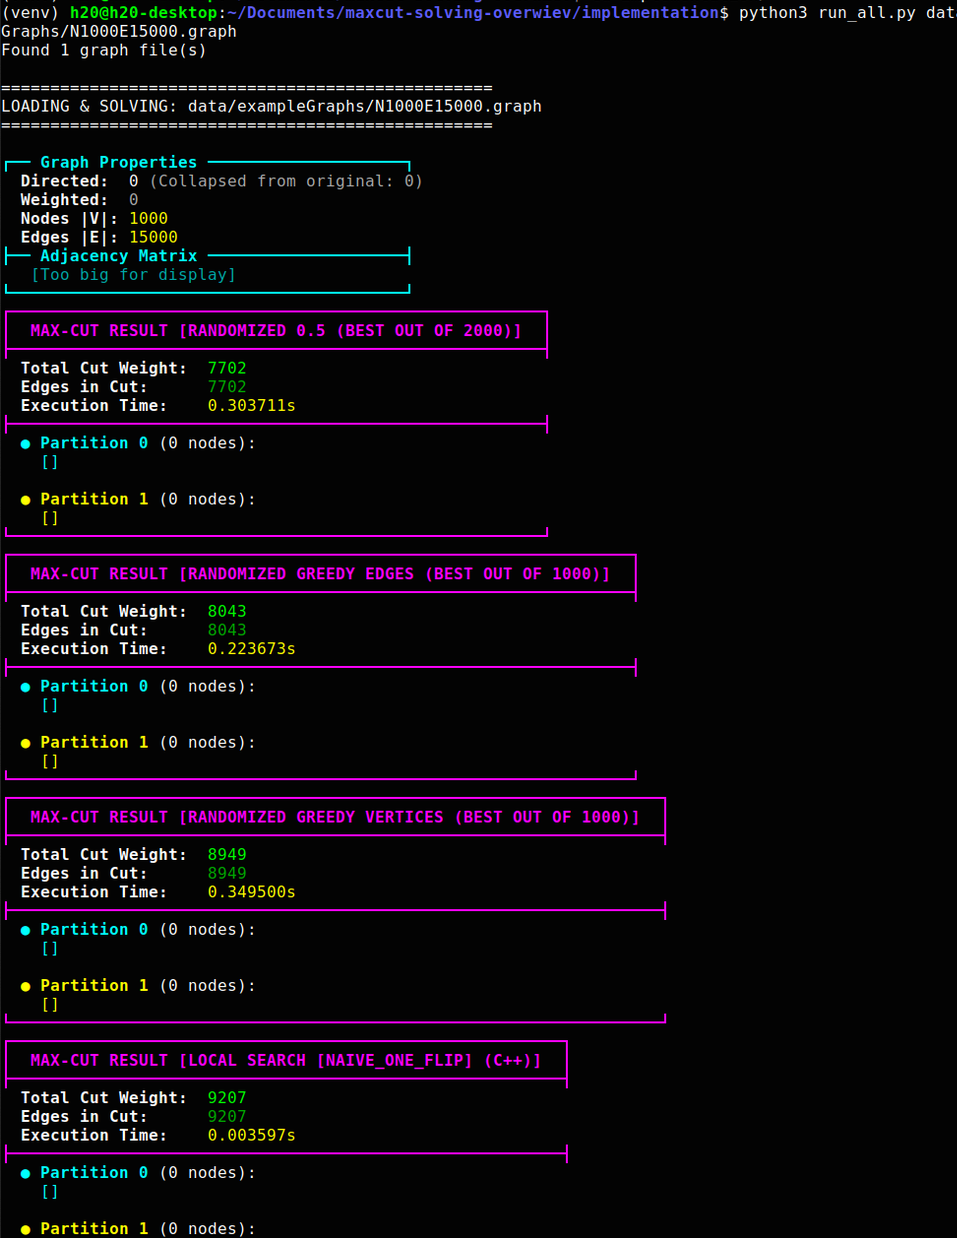
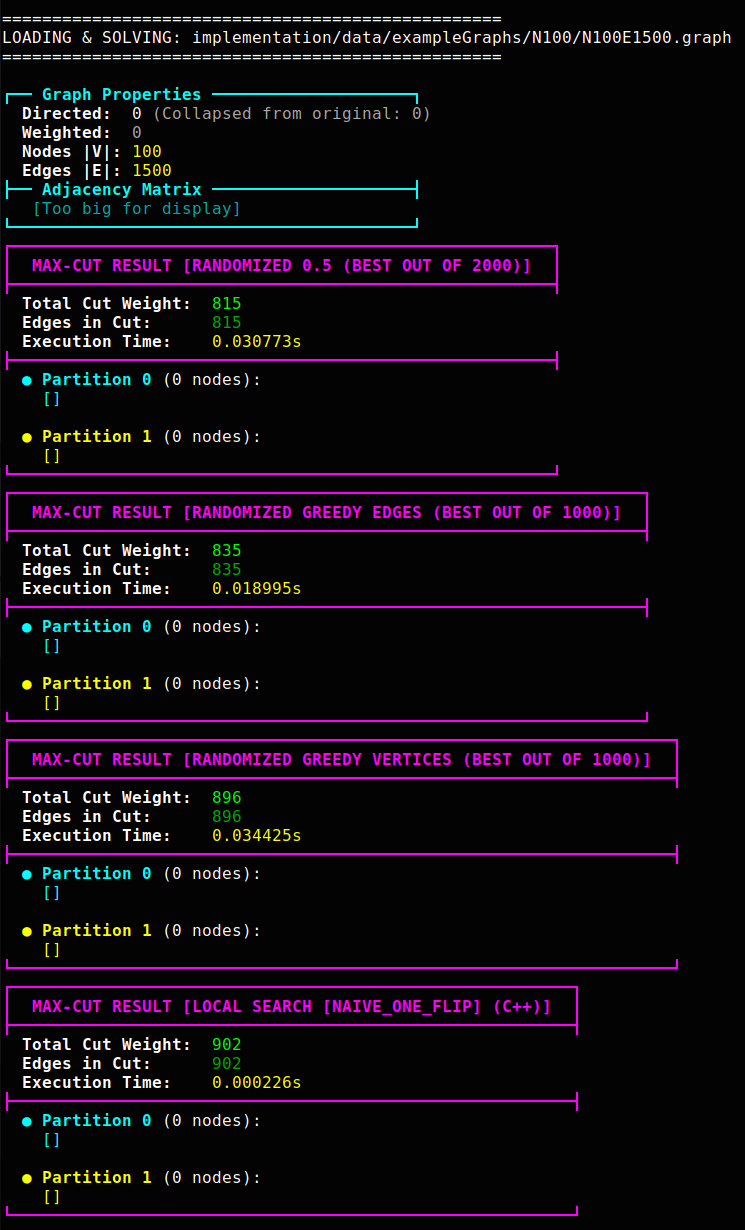
fixed bugs, added explanations

Changed region(s): [[0.0, 0.0, 1.0, 1.0]]

diff --git a/implementation/graphs/python/Graph.py b/implementation/graphs/python/Graph.py
@@ -150,3 +150,63 @@ class Graph:
 
         plt.tight_layout()
         plt.show()
+        
+    def draw_interactive(self, partition: dict[int, int] = None, node_size=200, filename="graph.html"):
+        from pyvis.network import Network
+        import networkx as nx
+        import matplotlib.pyplot as plt
+
+        # 1. Build the NetworkX graph
+        G = nx.Graph()
+        G.add_nodes_from(range(1, self.V_count + 1))
+
+        for u in range(1, self.V_count + 1):
+            for v in range(u + 1, self.V_count + 1):
+                weight = self.matrix[u][v]
+                if weight != 0.0:
+                    G.add_edge(u, v, weight=weight)
+
+        net = Network(height="600px", width="100%", bgcolor="#ffffff", font_color="black")
+        net.from_nx(G)
+
+        pyvis_size = max(25, int((node_size ** 0.5) * 4))
+
+        if partition:
+            unique_partitions = list(set(partition.values()))
+            print("Unique partition values:", set(partition.values()))
+            cmap = plt.get_cmap("Set2")
+
+            for node in net.nodes:
+                node_id = node["id"]
+                part_val = partition.get(node_id, 0)
+                
+                if len(unique_partitions) > 1:
+                    color_idx = unique_partitions.index(part_val) / max(1, len(unique_partitions) - 1)
+                else:
+                    color_idx = 0
+                
+                rgba = cmap(color_idx)
+                hex_color = '#{:02x}{:02x}{:02x}'.format(int(rgba[0]*255), int(rgba[1]*255), int(rgba[2]*255))
+                
+                node["color"] = hex_color
+                node["size"] = pyvis_size
+                node["title"] = f"Node {node_id} (Group {part_val})"
+
+            for edge in net.edges:
+                u, v = edge["from"], edge["to"]
+                if partition.get(u) != partition.get(v):
+                    edge["color"] = "red"
+                    edge["dashes"] = True
+                    edge["width"] = 1.5
+                else:
+                    edge["color"] = "grey"
+                    edge["width"] = 1.5
+        else:
+            for node in net.nodes:
+                node["color"] = "lightblue"
+                node["size"] = pyvis_size
+
+        # Enable physics, save, and launch in browser
+        net.barnes_hut()
+        net.show(filename, notebook=False)
+        print(f"Interactive graph saved and opened as {filename}")

diff --git a/implementation/run_all.py b/implementation/run_all.py
@@ -44,14 +44,14 @@ def ensure_cpp_library_built():
 # -- CONFIG --
 
 DO_FANCY = True
-TOP_AMOUNT = 999
+TOP_AMOUNT = 7
 
 RUN_BASIC = True
 
 RUN_WARM = True
 GOEMANS_VERBOSE = False
 
-RUN_MIP = True
+RUN_MIP = False
 MIP_TIME_LIMIT = 1800
 MIP_VERBOSE = True
 MIP_CALLBACK = [0.30, 0.20, 0.15, 0.12, 0.08, 0.05, 0.03, 0.01]
@@ -101,6 +101,7 @@ if __name__ == "__main__":
                 print(graph)
 
                 results_tracker = []
+                best_result = Result(cut_weight=0, partition=[], cut_edge_count=0)
 
                 def run_and_track(tag, func, *args, prep_time=0.0, **kwargs):
                     res = func(*args, **kwargs)
@@ -111,6 +112,10 @@ if __name__ == "__main__":
                     else:
                         raise RuntimeError
 
+                    global best_result
+                    if res.cut_weight > best_result.cut_weight:
+                        best_result = res
+                    
                     p_str = res.clear_partition()
                     results_tracker.append({
                         "tag": tag,
@@ -181,6 +186,11 @@ if __name__ == "__main__":
                     def mip_checkpoint(res, gap):
                         pct = f"{gap * 100:.4f}%"
                         p_str = res.clear_partition()
+
+                        global best_result
+                        if res.cut_weight > best_result.cut_weight:
+                            best_result = res
+
                         results_tracker.append({
                             "tag": f"Exact MIP [checkpoint gap<={pct} ({res.cut_weight:.4f} : OPT : {res.cut_weight*(gap+1):.4f})]",
                             "weight": res.cut_weight,
@@ -230,6 +240,8 @@ if __name__ == "__main__":
                 box_lines.append(f"{MAGENTA}╚════════════════════════════════════════════════════════════╝{RST}")
 
                 print("\n".join(box_lines))
+
+                #graph.draw_interactive(partition=best_result.partition)
                 
             except Exception as e:
                 print(f"Error occurred: {e}")

diff --git a/implementation/methodologies/quantum/python/Quantum.py b/implementation/methodologies/quantum/python/Quantum.py
@@ -21,7 +21,7 @@ def _edge_list(graph: Graph):
 
 
 def _cost_diagonal(n, edges):
-    """cut weight of every bitstring; index i has qubit q = bit q of i (little-endian)."""
+    """cut weight of every bitstring; index i has qubit q = bit q of i (little-endian). -> Qskit different convetion"""
     idx = np.arange(2 ** n, dtype=np.uint32)
     diag = np.zeros(2 ** n)
     for u, v, w in edges:

diff --git a/implementation/run_quantum.py b/implementation/run_quantum.py
@@ -6,7 +6,7 @@ import os
 import argparse
 
 from implementation.graphs.python.Graph import Graph
-import implementation.methodologies.heuristics_memetics.python.Quantum as qtm
+import implementation.methodologies.quantum.python.Quantum as qtm
 
 MAX_QUBITS = 20  # graphs larger than this are skipped
 MEAN_RE = re.compile(r"mean cut ([0-9.]+)")

diff --git a/implementation/methodologies/approximations/python/cpplib_approximations.py b/implementation/methodologies/approximations/python/cpplib_approximations.py
@@ -29,7 +29,7 @@ class _CResult(ctypes.Structure):
     _fields_ = [
         ("cut_weight", ctypes.c_double),
         ("cut_edge_count", ctypes.c_int),
-        ("partition", ctypes.POINTER(ctypes.c_int))
+        ("partition", ctypes.POINTER(ctypes.c_int8))
     ]
 
 

diff --git a/implementation/methodologies/heuristics_memetics/python/cpplib_heuristics_memetics.py b/implementation/methodologies/heuristics_memetics/python/cpplib_heuristics_memetics.py
@@ -29,7 +29,7 @@ class _CResult(ctypes.Structure):
     _fields_ = [
         ("cut_weight", ctypes.c_double),
         ("cut_edge_count", ctypes.c_int),
-        ("partition", ctypes.POINTER(ctypes.c_int))
+        ("partition", ctypes.POINTER(ctypes.c_int8))
     ]
 
 

diff --git a/README.md b/README.md
@@ -1,47 +1,125 @@
-## Overview of different approaches:
+# Methodology
 
-### Meta-Heuristics and Memetics:
-  - QAOA
-    - simulated
-    - IBM `QPU`
+This README documents details of the computational and mathematical frameworks implemented for solving the **Max-Cut problem** across exact mathematical programming, theoretical approximations, classical metaheuristics, and quantum computing paradigms.
 
-  - GRASP
+**Implementation overview:** the exact, SDP-based and quantum solvers are written in Python (Gurobi / python-MIP, MOSEK, Qiskit). The randomized approximations, local searches and metaheuristics are written in C++ with OpenMP parallelism and share a common `CutState` structure that maintains the partition, cut weight, cut edge count and the O(1)-queryable gain of flipping a single vertex (`flip_delta`). All solvers return the partition, cut weight, cut edge count and execution time.
 
-  - VNS
+---
 
-  - Local Search:
-    - Naive
-    - K'flip
-    - variable depth pass (KL/FM inspired)
+## Exact Methods (Mixed-Integer Programming)
 
-  - Tabu Search
-    - short memory
-    - long and short memory
+Exact methods formulate Max-Cut as a **Binary Integer Program (BIP)** with a linearized objective, guaranteeing global optimality through **Gurobi** (Branch-and-Bound, cutting planes, presolving).
 
-  - Genetic
-    - default (uniform crossover)
-    - memetic (with local improvement)
+- **Default MIP Formulation** (`solve`, built with python-MIP using the Gurobi backend)
+  - **General idea:** Define a binary vertex variable $v_i \in \{0, 1\}$ (partition side) for each vertex and a binary edge variable $e_{ij}$ for each edge with non-zero weight (only the upper triangle of the weight matrix is iterated). The objective maximizes $\sum_{(i,j) \in E} w_{ij} e_{ij}$.
+  - **Linearization:** The quadratic term $w_{ij}(v_i + v_j - 2 v_i v_j)$ is replaced by the edge variable together with two upper-bounding constraints:
+    - $e_{ij} \le v_i + v_j$ (an edge can only be cut if at least one endpoint is on side 1)
+    - $e_{ij} \le 2 - (v_i + v_j)$ (an edge can only be cut if at least one endpoint is on side 0)
+  - **Implementation details:** No additional valid inequalities (e.g. triangle/odd-cycle cuts) are added explicitly; strengthening of the LP relaxation is left to Gurobi's internal cut generation and presolve. If no feasible solution is found, an empty result is returned.
+  - **Potential Key References / Publications:** *[Cite foundational MIP literature and Gurobi optimization manuals, e.g., Achterberg, 2007]*
 
-  - Genetic Island
-    - default (uniform crossover)
-    - memetic (with local improvement)
+- **Native Gurobi Implementation with Incumbent Callbacks** (`solve_with_partial_results`)
+  - **General idea:** Rebuild the same model with the native `gurobipy` API to gain access to Gurobi's solver callbacks. The callback monitors the branch-and-bound search (it does **not** inject lazy constraints) and reports the best known solution live as the solver progresses.
+  - **Implementation details:**
+    - On every new incumbent (`MIPSOL`) the partition is extracted and its **true cut weight is recomputed from the partition** rather than read from the model objective, since the edge variables are only upper-bounded and can undercount.
+    - Periodic `MIP` callbacks catch best-bound improvements that occur without a new incumbent.
+    - The relative MIP gap between the best incumbent and the best bound is computed on each change. Results are reported either on every change, or only when the gap crosses user-defined thresholds (e.g. 15%, 12%, 9%, 6%, 3%, 1%) through an `on_checkpoint` callback.
+    - An optional time limit is supported; if it is hit, the best incumbent and the final MIP gap are reported as one last checkpoint.
+    - Returns `None` if `gurobipy` is not installed.
+  - **Potential Key References / Publications:** *[Cite Gurobi callback documentation and literature on anytime / gap-based reporting for MIP solvers]*
 
-### Approximations:
-  - Goemans–Williamson algorithm
+---
 
-  - Randomized half
+## Approximation Algorithms
 
-  - Randomized greedy edges
+Approximation algorithms offer polynomial-time solvability coupled with worst-case (or expected) performance guarantees relative to the global optimum.
 
-  - Randomized greedy vertices
+- **Goemans-Williamson Algorithm**
+  - **General idea:** Implement the classic 0.878-approximation (in expectation, for non-negative weights) by relaxing the quadratic formulation into a Semidefinite Program (SDP), solving it with interior-point methods, and rounding the resulting unit vectors into binary assignments using random hyperplanes.
+  - **SDP formulation:** Maximize $\tfrac{1}{4}\sum_{i,j} W_{ij}(1 - X_{ij})$ over a symmetric positive semidefinite matrix $X$ subject to $X_{ii} = 1$. The current implementation calls the **MOSEK Fusion API** directly (for lower RAM usage); an earlier CVXPY + MOSEK implementation is kept as a legacy reference.
+  - **Rounding:**
+    - The solution matrix is regularized by clipping its eigenvalues to a small positive floor ($10^{-9}$) and reconstructing it, then factorized by Cholesky decomposition to obtain the vectors $v_i$.
+    - A configurable number of random Gaussian hyperplanes (`RANDOM_SLICE_TRIALS`) are drawn and normalized (vectorized as a single matrix product). Each vertex is assigned by the sign of $\langle v_i, r \rangle$.
+    - Each resulting cut is evaluated and the **best of all slices** is returned.
+  - **Potential Key References / Publications:** *[Cite Goemans & Williamson, 1995]*
 
-### Exact solutions (solvers):
-  - BIP formulation solvers - Gurobi
-    - Available callbacks
+- **Randomized Combinatorial Approximations** (C++, best-of-`trials`)
+  These are SDP-free randomized baselines. Each runs for a fixed number of trials and keeps the best cut found.
+  - *Randomized Half:* Each vertex is independently placed on either side with probability 1/2 (a uniform random partition). In expectation this cuts half of the total edge weight (a 0.5-approximation for non-negative weights).
+  - *Randomized Greedy Edges:* Edges are shuffled in random order and processed sequentially. An edge with both endpoints unassigned places them on opposite sides (random orientation); an edge with one assigned endpoint places the other endpoint on the opposite side; already-assigned edges are skipped. Vertices left unassigned are placed randomly.
+  - *Randomized Greedy Vertices:* Start from a random partition and visit the vertices in a random order. A vertex is flipped when the weight of its edges to vertices on its own side exceeds the weight of its edges crossing the cut (i.e. a single randomized pass of 1-flip improvement using neighbor weights from the adjacency list).
+  - **Potential Key References / Publications:** *[Cite literature on randomized and greedy Max-Cut approximations, e.g., Sahni & Gonzalez, 1976]*
 
-### Small presentation:
+---
+
+## Classical Heuristics & Metaheuristics
+
+For large-scale graph instances where exact MIP solvers and SDP approximations become computationally expensive, metaheuristics provide an effective trade-off between solution quality and execution time. All of them operate on partition vectors and use the incremental `flip_delta` gain of a single-vertex flip. These methods might take advantage of a `warm-start` - i.e. running algorithm on already predetermined, guarranteed approximation, for instance - *Goemans-Williamson* approximated output becomes *Local Search*'s initial state.
+
+- **Local Search Strategies**
+  - **Naive 1-Flip (Steepest Ascent):** Repeatedly flips the single vertex with the largest positive gain until no improving flip exists.
+  - **K-Flip Local Search:** First exhausts best-improvement 1-flips. When none remain, it exhaustively enumerates combinations of 2 up to $K$ vertices (depth-first over increasing vertex indices), parallelized with OpenMP with thread-local state copies. The best improving combination found is applied, and the search returns to the 1-flip phase; it terminates when no improving combination of size up to $K$ exists.
+  - **Kernighan-Lin / Fiduccia–Mattheyses Inspired Variable-Depth Pass:** In each pass, all vertices start unlocked. At every step the unlocked vertex with the highest gain (even if negative) is flipped and locked, building a sequence of interdependent moves. The pass is then rolled back to the prefix with the best cumulative cut weight; passes are repeated until a pass yields no improvement. Vertex selection is a linear scan (no gain buckets) and, unlike classic graph partitioning, no balance constraint is imposed.
+  - **Potential Key References / Publications:** *[Cite Kernighan & Lin, 1970; Fiduccia & Mattheyses, 1982]*
+
+- **Variable Neighborhood Search (VNS)**
+  - **General idea:** Start from a random (or supplied) partition refined by Kernighan-Lin local search. At each iteration, for neighborhood size $k = 1, \dots, k_{max}$: *shake* a copy of the incumbent by flipping $k$ distinct random vertices (an O(k) perturbation using a hash set with linear probing), then re-optimize with Kernighan-Lin local search. If the result improves on the best cut found, it becomes the new incumbent and $k$ resets to 1; otherwise $k$ is incremented.
+  - **Potential Key References / Publications:** *[Cite Mladenović & Hansen, 1997]*
+
+- **Greedy Randomized Adaptive Search Procedure (GRASP)**
+  - **General idea:** Multi-start metaheuristic. Each iteration (1) constructs a partition vertex by vertex: a random first vertex is placed, then at each step the gains of all unassigned vertices are computed, a Restricted Candidate List (RCL) is formed from vertices whose gain is within $\alpha \cdot (\text{max} - \text{min})$ of the best gain, and one RCL member is chosen at random and assigned to a side according to the sign of its gain; then (2) improves the constructed partition with Kernighan-Lin local search. The parameter $\alpha$ controls greediness (0 = purely greedy, 1 = purely random).
+  - **Parallelization:** Iterations are distributed dynamically across OpenMP threads, each with its own random number generator and thread-local best; thread-local bests are merged in a critical section.
+  - **Potential Key References / Publications:** *[Cite Feo & Resende, 1995]*
+
+- **Simulated Annealing**
+  - **General idea:** Probabilistic metaheuristic modeling thermodynamic annealing. At each step a random vertex is selected and its flip gain $\Delta$ evaluated; improving moves are always accepted, while cut-decreasing moves are accepted with the Metropolis probability $e^{\Delta / T}$.
+  - **Schedule:** $n$ moves are performed per temperature level; the number of temperature levels is `max_iterations / n` (at least 1); the temperature is multiplied by a geometric `cooling_rate` after each level, and the run stops early if $T < 10^{-12}$. The best partition is copied only when a new global best is found.
+  - **Potential Key References / Publications:** *[Cite Kirkpatrick et al., 1983]*
+
+- **Tabu Search**
+  - **Move selection:** At every iteration, all vertices are scanned and the best-scoring non-tabu flip is applied, even when it worsens the cut. If all moves are tabu and none satisfies the aspiration criterion, the move with the maximum raw gain is chosen as a fallback.
+  - **Short-Term Memory:** A recency-based tabu list stores, for each vertex, the iteration until which it cannot be flipped again (`tabu_tenure`). An **aspiration criterion** overrides tabu status if the move would produce a new global best.
+  - **Long-Term Memory (mode `SHORT_AND_LONG_TERM`):** A per-vertex flip-frequency counter penalizes the move score by $0.01 \times \text{frequency}$, steering the search away from frequently flipped vertices (frequency-based diversification). In `SHORT_TERM` mode the penalty is disabled.
+  - **Potential Key References / Publications:** *[Cite Glover, 1989, 1990]*
+
+- **Genetic Algorithms (GA)**
+  - **Basic GA:** A steady-state evolutionary algorithm over binary partition strings (optionally seeding one individual with a supplied partition). The population is sorted by fitness (total cut weight) each generation; two parents are selected by rank-biased tournament (the better of two uniformly drawn ranks), a single child is produced by **uniform crossover** (each gene taken from either parent with probability 0.5) followed by **bit-flip mutation**, and the child replaces the worst individual if it is fitter.
+  - **Memetic Algorithm:** Same steady-state scheme, but every initial individual and every child (after mutation) is refined with Kernighan-Lin local search before competing for a place in the population. Runs sequentially.
+  - **Potential Key References / Publications:** *[Cite Goldberg, 1989; Moscato, 1989]*
+
+- **Island Genetic Algorithm (Memetic)**
+  - **General idea:** Parallel memetic GA in which each OpenMP thread is one island with its own sub-population (total population divided among islands, minimum 4 individuals each), its own random seed, and access to the full graph. Each island runs the memetic steady-state loop described above.
+  - **Migration:** Every `migration_interval` generations, islands synchronize at a barrier and each exports its best individual to the next island in a **ring topology**, where it replaces the receiving island's worst individual. This maintains diversity and mitigates premature convergence.
+  - **Result:** The best individual across all islands is returned.
+  - **Potential Key References / Publications:** *[Cite Whitley et al., 1999]*
+
+---
+
+## Quantum Approaches
+
+Exploration of quantum computing paradigms to assess the scalability of hybrid quantum-classical approaches to the Max-Cut problem. Quantum Annealing was also considered as a potential approach but ultimately excluded due to the unavailability of a D-Wave license.
+
+- **Quantum Approximate Optimization Algorithm (QAOA)**
+  - **General idea:** Express Max-Cut as a scoring function over all $2^n$ partitions, the cost Hamiltonian $H_C = \frac{1}{2}\sum_{(i,j) \in E} w_{ij}(I - Z_i Z_j)$, which is a diagonal table whose entry for each partition is its cut weight. QAOA keeps one complex amplitude per partition, starting uniform (Hadamards on all qubits) so every partition is equally likely. A partition is finally sampled with probability equal to the squared magnitude of its amplitude, and the circuit is built so that high-cut partitions end up with large amplitudes.
+  - **Circuit structure:** The circuit consists of $p$ layers, each with its own pair of angles $(\gamma_k, \beta_k)$:
+    - *Cost step* $e^{-i\gamma_k H_C}$: multiplies each partition's amplitude by a phase proportional to its cut weight. Since the cut weight is a sum over edges, this factors into one `RZZ(-γ_k·w_ij)` (double qubit) gate per edge, which multiplies each amplitude by a number depending only on whether that edge is cut (equal to the cost evolution up to a global phase). It changes phases only, not probabilities.
+    - *Mixer step* $e^{-i\beta_k H_B}$ with $H_B = \sum_i X_i$: blends each partition's amplitude with those of the partitions differing in exactly one vertex, implemented as one `RX(2β_k)` (single qubit) gate per qubit. Because amplitudes are added, the phases from the cost step decide whether they reinforce or cancel, which shifts probability toward high-cut partitions.
+  - **Classical angle optimization:** The $2p$ angles $(\gamma, \beta)$ are tuned with **COBYLA** against the **exact expectation value** computed by a custom NumPy statevector simulation (diagonal cost operator plus in-place mixer application, complex64), with several random restarts (`N_RESTARTS`, `MAX_ITER` iterations each). Because the exact expectation is used, optimization is free of shot noise, but it limits the instance size (default maximum of 24 qubits).
+  - **Sampling / execution environments** (the optimized circuit is sampled once with `SHOTS` shots; the best bitstring over all shots is returned, and the mean cut over all shots is recorded for comparison with a random baseline):
+    - *AerSimulator:* Noise-free sampling of the transpiled circuit on Qiskit Aer (no noise model is injected in the current implementation).
+    - *Real QPU:* Single-job execution on an IBM Quantum device through Qiskit Runtime (`SamplerV2`), either a named backend or the least busy operational device with enough qubits. The circuit is transpiled to the device topology and native gate set with the preset pass manager (optimization level 3); the job id is printed so results can be retrieved later. No custom error-mitigation settings are configured beyond Runtime defaults.
+  - **Validation and diagnostics utilities:**
+    - *Circuit verification:* compares the Qiskit circuit's expected cut with the NumPy simulation on a small graph to confirm both implement the same unitary.
+    - *Reference values:* computes the exact optimum by brute force over all $2^n$ bitstrings, plus the best and mean cut of random sampling with the same number of shots.
+    - *Transpile report:* transpiles for a chosen backend (costing no QPU time) and reports circuit depth and two-qubit gate count.
+  - **Potential Key References / Publications:** *[Cite Farhi, Goldstone, & Gutmann, 2014]*
+
+### Small presentation of the results:
 ![](sources_notes/screenshots/image1.png)
 ![](sources_notes/screenshots/image2.png)
-![](sources_notes/screenshots/top5.png)
+![](sources_notes/screenshots/image3.png)
+![](sources_notes/screenshots/image4.png)
+![](sources_notes/screenshots/image5.png)
+![](sources_notes/screenshots/top7.png)
 
  

diff --git a/TODO.md b/TODO.md
@@ -1,7 +1,4 @@
 ## Writing Code
-- `Small fixes`:
-    - maybe improve callbacks to call on improved upper bounds too not only on improved lower bouds (do not *only* check `.MIPSOL`)
-
 - `Validity Checks`:
     - Check QAOA simulation
     - Check QAOA IBM QPU pass
